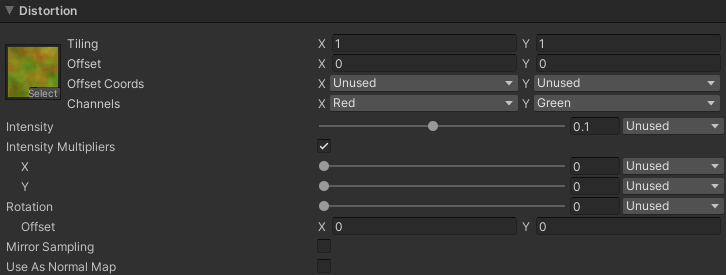
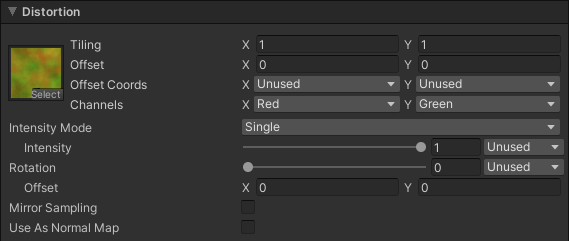
READMEのdistortionに強度モードを追加

diff --git a/README_JA.md b/README_JA.md
@@ -1429,14 +1429,31 @@ Distortionでは歪ませ方を設定できます。
 色ではなく値としてテクスチャを使うので、テクスチャ設定のsRGB Colorのチェックを外す必要がある点に注意してください。
 </p>
 </td></tr>
+<tr><td colspan="3"><b>Intensity Mode</b></td><td>
+<p>
+歪み強度の制御方法を指定します。
+</p>
+<p>
+<ul>
+<li>Single: X/Y共通の単一値で強度を制御します（デフォルト）。</li>
+<li>XY: X軸とY軸で個別に強度を制御します。</li>
+</ul>
+</p>
+</td></tr>
 <tr><td colspan=3><b>Intensity</b></td><td>
+<p>
+<b>Intensity Mode が Single の場合にのみ表示されます。</b>
+</p>
 <p>
 歪みの強さを設定します。
 </p>
 </td></tr>
-<tr><td colspan="3"><b>Intensity Multipliers</b></td><td>
+<tr><td colspan=3><b>Intensity X / Intensity Y</b></td><td>
 <p>
-チェックをつけるとX/Yの強度を独立して制御できます。
+<b>Intensity Mode が XY の場合にのみ表示されます。</b>
+</p>
+<p>
+各軸の歪み強度を個別に設定します。
 </p>
 </td></tr>
 <tr><td colspan="3"><b>Rotation</b></td><td>

diff --git a/README.md b/README.md
@@ -1425,14 +1425,31 @@ Sets the Distortion Map. The specifications are as follows.
 Note that you need to uncheck sRGB Color in the texture import setting because the pixels will be used as values, not colors.
 </p>
 </td></tr>
+<tr><td colspan="3"><b>Intensity Mode</b></td><td>
+<p>
+Specifies how distortion intensity is controlled.
+</p>
+<p>
+<ul>
+<li>Single: Use a single intensity value for both X and Y (Default).</li>
+<li>XY: Use separate intensity values for X and Y axes.</li>
+</ul>
+</p>
+</td></tr>
 <tr><td colspan=3><b>Intensity</b></td><td>
+<p>
+<b>This property is visible only when Intensity Mode is set to Single.</b>
+</p>
 <p>
 Sets the distortion intensity.
 </p>
 </td></tr>
-<tr><td colspan="3"><b>Intensity Multipliers</b></td><td>
+<tr><td colspan=3><b>Intensity X / Intensity Y</b></td><td>
 <p>
-When enabled, allows independent intensity control for X and Y.
+<b>These properties are visible only when Intensity Mode is set to XY.</b>
+</p>
+<p>
+Sets the distortion intensity for each axis independently.
 </p>
 </td></tr>
 <tr><td colspan="3"><b>Rotation</b></td><td>
